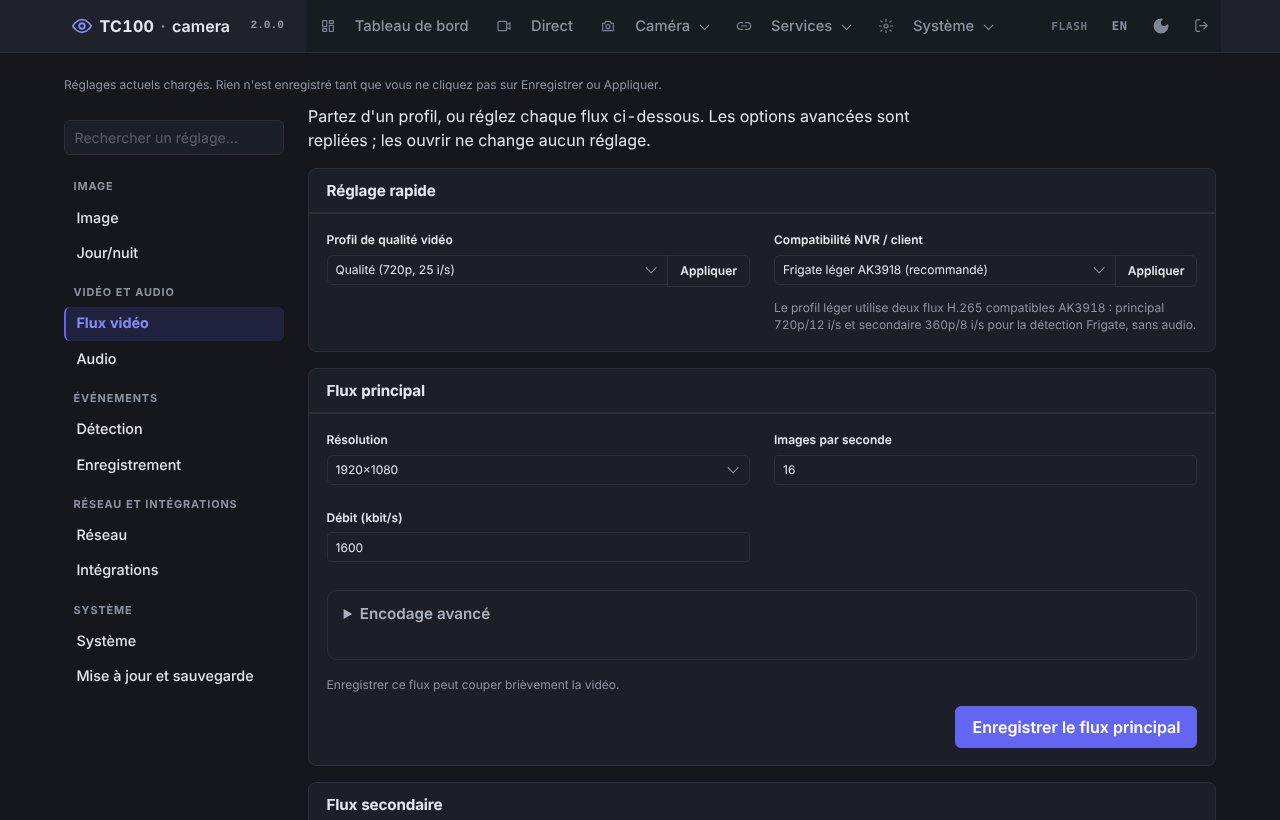
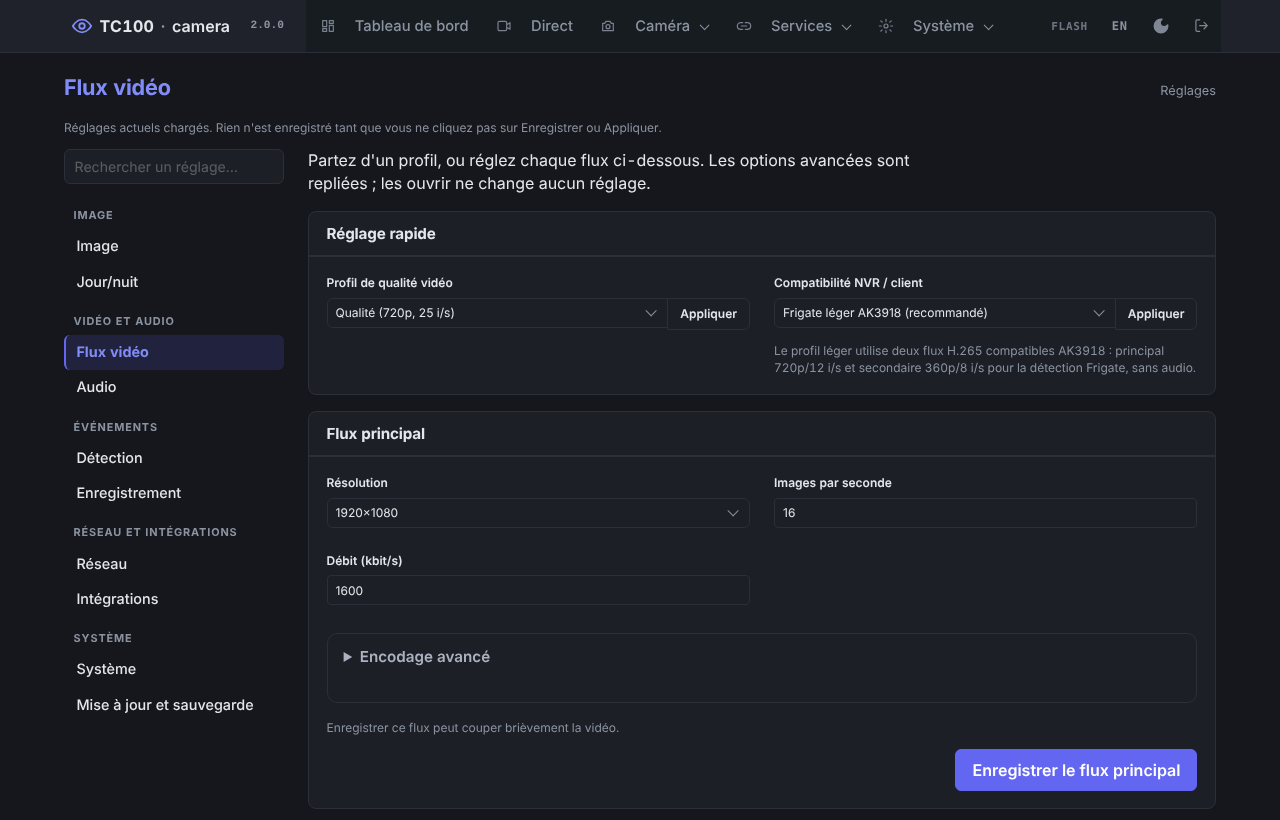
2.1.1: lighter CGIs, ChaCha20 first over HTTPS, remaining pages restyled
- statusline without subshells on its usual path (0.94 -> 0.50 s per
  request on a camera); func.cgi caches the timeout probe and skips
  urldecode for plain values.
- Flash HTTPS prefers ECDHE-ECDSA-CHACHA20-POLY1305 (mbedTLS names):
  ~55 % less CPU to serve a page (no AES instructions on the AK3918).
- Page titles on Diagnostics, Logs, Services, Config editor, Recordings;
  segmented log tabs; themed recordings player; settings title follows
  the section; search loads the Wi-Fi and backup cards.
- Web updates record a reboot intent (no more "UNEXPECTED" for them).

Claude-Session: https://claude.ai/code/session_014gtE1qwzw7JFQVcpbdix3V

diff --git a/www/settings.html b/www/settings.html
@@ -1,4 +1,5 @@
 <div id="settings_container">
+    <header class="page-head"><h1 class="page-title" id="settings_title">Picture</h1><small class="page-meta">Settings</small></header>
     <p id="settings_load_status" class="help mb-3" role="status">Loading current settings…</p>
     <div id="settings_warnings">
             <div id="sd_readonly_warning" style="display:none">
@@ -746,6 +747,8 @@
             var search = document.getElementById('settings_search');
             if (search && search.value) { search.value = ''; applySearch(''); }
             navLinks.forEach(function (t) { t.classList.toggle('is-active', t.dataset.tab === targetId); });
+            var title = document.getElementById('settings_title');
+            if (title && linkFor[targetId]) title.textContent = linkFor[targetId].querySelector('span').textContent;
             document.querySelectorAll('#tab-contents > .tab-content').forEach(function(content) {
                 content.classList.toggle('is-hidden', content.id !== targetId);
             });
@@ -767,6 +770,8 @@
             q = (q || '').trim().toLowerCase();
             var container = document.getElementById('settings_container');
             container.classList.toggle('is-searching', !!q);
+            var title = document.getElementById('settings_title');
+            if (title) title.textContent = q ? 'Search results' : (linkFor[currentTab] ? linkFor[currentTab].querySelector('span').textContent : '');
             var any = false;
             document.querySelectorAll('#tab-contents > .tab-content').forEach(function (tab) {
                 var hits = 0;
@@ -791,9 +796,17 @@
         var searchBox = document.getElementById('settings_search');
         if (searchBox) {
             var searchTimer = null;
+            var slotsAsked = false;
             searchBox.addEventListener('input', function () {
                 clearTimeout(searchTimer);
                 searchTimer = setTimeout(function () { applySearch(searchBox.value); }, 120);
+                // Network and backup cards load on demand: fetch them on the
+                // first search so they can be found too.
+                if (!slotsAsked) {
+                    slotsAsked = true;
+                    Promise.all([loadSlot('network_settings_slot'), loadSlot('backup_slot')])
+                        .then(function () { if (searchBox.value) applySearch(searchBox.value); });
+                }
             });
             searchBox.addEventListener('keydown', function (e) {
                 if (e.key === 'Escape') { searchBox.value = ''; applySearch(''); }
@@ -863,9 +876,9 @@
         // time their tab is opened.
         function loadSlot(id) {
             var slot = document.getElementById(id);
-            if (!slot || slot.dataset.loaded || !window.EliteUI || !window.EliteUI.loadInto) return;
+            if (!slot || slot.dataset.loaded || !window.EliteUI || !window.EliteUI.loadInto) return Promise.resolve();
             slot.dataset.loaded = '1';
-            window.EliteUI.loadInto(slot, slot.dataset.src);
+            return window.EliteUI.loadInto(slot, slot.dataset.src);
         }
 
         // Nearby networks, inside the Wi-Fi card: a click on a row fills the

diff --git a/www/css/ui-v3.css b/www/css/ui-v3.css
@@ -197,3 +197,22 @@ input.switch[type="checkbox"]:checked, .services-autorun-cell input.autostart:ch
   .settings-nav a { flex: none; white-space: nowrap; border: 1px solid var(--v2-rule); border-left-width: 1px; padding: 0.3rem 0.7rem; font-size: 0.85rem; }
   .settings-nav a.is-active { border-color: var(--v2-accent-fill); }
 }
+
+/* ---------------------------------------------------------- tool pages */
+/* Logs: the three logs as one segmented control. */
+.logs-tab-buttons { display: flex !important; flex-direction: row !important; gap: 0 !important; margin-bottom: 0.75rem; }
+.logs-tab-buttons .button { flex: 1; margin: 0 !important; border-radius: 0 !important; }
+.logs-tab-buttons .button + .button { margin-left: -1px !important; }
+.logs-tab-buttons .button:first-child { border-radius: 6px 0 0 6px !important; }
+.logs-tab-buttons .button:last-child { border-radius: 0 6px 6px 0 !important; }
+.logs-tab-buttons .button.is-active { background: var(--v2-accent-soft) !important; color: var(--v2-accent) !important; border-color: var(--v2-accent-fill) !important; position: relative; z-index: 1; }
+[data-theme="dark"] .logs-severity-tag, [data-theme="dark"] .logs-summary-chip { filter: saturate(0.7) brightness(0.85); }
+/* Recordings: the player frame follows the theme. */
+.records-video { background: var(--v2-panel) !important; border-color: var(--v2-rule) !important; border-radius: var(--v2-radius) !important; }
+.records-video .notification { margin: 0; }
+#disk_usage_label { color: var(--v2-muted) !important; }
+.motion-timeline > summary { display: flex; align-items: center; padding-right: 1.1rem !important; }
+.motion-timeline-thumb { background: var(--v2-hover) !important; }
+.motion-timeline-item { border-bottom-color: var(--v2-rule) !important; }
+/* Diagnostics tabs: same look as the rest of the bar. */
+#diagnostics_container .tabs li.is-active a { box-shadow: inset 0 -2px 0 var(--v2-accent-fill) !important; }

diff --git a/www/index.html b/www/index.html
@@ -22,9 +22,9 @@
     <!-- CSS Framework: Modernization v1.0.2 -->
     <link href="css/bulma.1.0.2.purged.min.css?v=1.8.4" rel="stylesheet">
     <link href="css/ui-modern.min.css?v=1.8.4-ui4" rel="stylesheet">
-    <link href="css/ui-v2.css?v=2.1.0-ui1" rel="stylesheet">
-    <link href="css/ui-v3.css?v=2.1.0-ui1" rel="stylesheet">
-    <script src="scripts/i18n.js?v=2.1.0-i18n1"></script>
+    <link href="css/ui-v2.css?v=2.1.1-ui1" rel="stylesheet">
+    <link href="css/ui-v3.css?v=2.1.1-ui1" rel="stylesheet">
+    <script src="scripts/i18n.js?v=2.1.0-i18n2"></script>
     <link href="icomoon/style.css" rel="stylesheet">
     <!-- Prefer lightweight bundles; global jQuery removed to lower client CPU and memory -->
 
@@ -328,7 +328,7 @@
     </section>
 
     <!-- Prefer lightweight bundled scripts to reduce CPU and allow caching -->
-    <script src="scripts/index.bundle.min.js?v=2.1.0-ui1" type="text/javascript" defer></script>
+    <script src="scripts/index.bundle.min.js?v=2.1.1-ui1" type="text/javascript" defer></script>
     <script>
         (function () {
             var loading = false;

diff --git a/www/i18n/fr.js b/www/i18n/fr.js
@@ -130,6 +130,7 @@ window.tc100I18nFr = {
   "Config Editor": "Éditeur de configuration",
   "Config File Editor": "Éditeur des fichiers de configuration",
   "Config Profiles": "Profils de configuration",
+  "Config editor": "Éditeur de configuration",
   "Configuration applied": "Configuration appliquée",
   "Configuration profiles": "Profils de configuration",
   "Configured": "Configuré",
@@ -558,6 +559,7 @@ window.tc100I18nFr = {
   "Scan": "Rechercher",
   "Scan failed: ": "Échec de la recherche : ",
   "Scans for nearby WiFi networks. Takes 3-5 seconds.": "Recherche les réseaux Wi-Fi proches. Prend 3 à 5 secondes.",
+  "Search results": "Résultats de la recherche",
   "Search settings": "Rechercher un réglage",
   "Search settings…": "Rechercher un réglage…",
   "Secondary DNS": "DNS secondaire",

diff --git a/www/view_records.html b/www/view_records.html
@@ -68,6 +68,7 @@
 .motion-timeline>summary{cursor:pointer;list-style:none}.motion-timeline>summary::-webkit-details-marker{display:none}.motion-timeline>summary::after{content:"+";margin-left:auto}.motion-timeline[open]>summary::after{content:"−"}.motion-timeline-tools{display:flex;align-items:center;gap:.5rem;margin-bottom:.5rem}.motion-timeline-empty{padding:.5rem;color:#777;font-size:.85em}
 </style>
 
+<header class="page-head"><h1 class="page-title">Recordings</h1></header>
 <div class="records-layout">
   <div class="records-panel">
     <div class="card status_card">

diff --git a/www/scripts/i18n.js b/www/scripts/i18n.js
@@ -12,7 +12,7 @@
 (function () {
   "use strict";
   var KEY = "tc100_lang";
-  var VERSION = "2.1.0-i18n1";
+  var VERSION = "2.1.0-i18n2";
   var lang = null;
   try { lang = window.localStorage.getItem(KEY); } catch (e) { /* storage blocked */ }
   if (lang !== "fr" && lang !== "en") {

diff --git a/www/configeditor.html b/www/configeditor.html
@@ -29,6 +29,7 @@
 .configeditor-note { font-size: 0.82em; color: #888; margin-top: 0.25rem; }
 </style>
 
+<header class="page-head"><h1 class="page-title">Config editor</h1></header>
 <div class="card status_card">
   <header class="card-header">
     <p class="card-header-title">

diff --git a/www/diagnostics.html b/www/diagnostics.html
@@ -1,3 +1,4 @@
+<header class="page-head"><h1 class="page-title">Diagnostics</h1></header>
 <div id="diagnostics_container">
     <!-- One page for the camera's state, each part loaded when its tab is
          opened (each one runs several probes on the camera). -->

diff --git a/src/webui/screenshots/mock/scripts.cgi.none.html b/src/webui/screenshots/mock/scripts.cgi.none.html
@@ -1,3 +1,4 @@
+<header class='page-head'><h1 class='page-title'>Services</h1></header>
 <div class='card status_card services-table-card'>
 <header class='card-header'>
 <p class='card-header-title'>Services</p>

diff --git a/www/logs.html b/www/logs.html
@@ -1,3 +1,4 @@
+<header class="page-head"><h1 class="page-title">Logs</h1></header>
 <div class="info-grid">
   <div class="info-side">
     <div class="card status_card info-card">

diff --git a/tests/test_regressions.py b/tests/test_regressions.py
@@ -173,7 +173,7 @@ class Regressions(unittest.TestCase):
         cfg.mkdir()
         (cfg / 'boot.conf').write_text('SECURITY_HARDENING_MODE=0\n')
         (cfg / 'mqtt.conf').write_text('MQTT_ENABLE=1\nMQTT_HA_DISCOVERY_ENABLE=1\n')
-        code = function('www/cgi-bin/func.cgi', 'read_conf_value') + '\n'
+        code = function('www/cgi-bin/func.cgi', 'read_conf_value') + '\n' + function('www/cgi-bin/func.cgi', 'conf_get') + '\n'
         flags = function('www/cgi-bin/state.cgi', 'get_security_and_mqtt_flags')
         flags = flags.replace('/mnt/config', str(cfg)).replace('/tmp/mqtt_last_pub.status', str(self.base / 'missing-status'))
         code += flags + '\nget_security_and_mqtt_flags; printf "%s|%s" "$mqtt_enabled" "$mqtt_discovery"'
@@ -1589,6 +1589,11 @@ class FlashWebServer(unittest.TestCase):
         self.assertIn('"mod_mbedtls"', t); self.assertNotIn('"mod_openssl"', t)
         self.assertIn('"server.h2proto" => "disable"', t)
         self.assertIn('ssl.pemfile = "/mnt/config/lighttpd.pem"', t)
+        # ChaCha20 first, in mbedTLS names (OpenSSL names stop lighttpd: tried on a camera)
+        cs = re.search(r'"CipherString" => "([^"]+)"', t).group(1).split(':')
+        self.assertEqual(cs[0], 'TLS-ECDHE-ECDSA-WITH-CHACHA20-POLY1305-SHA256')
+        self.assertTrue(all(c.startswith('TLS-ECDHE-ECDSA-WITH-') for c in cs), cs)
+        self.assertIn('"Options" => "ServerPreference"', t)
 
     def test_flash_conf_needs_no_pcre(self):
         t = (ROOT / 'config/lighttpd.flash.conf.dist').read_text()
@@ -2159,6 +2164,7 @@ class UsrUpdateFromFlash(unittest.TestCase):
         src = (ROOT / 'www/cgi-bin/update.cgi').read_text().replace('/tmp/csrf_token', str(self.d / 'csrf'))
         env = dict(self.env, REQUEST_METHOD=method, QUERY_STRING='cmd=' + cmd, CONTENT_LENGTH=str(len(body)),
                    HTTP_X_CSRF_TOKEN='ab12', FC_SCRIPT=str(ROOT / 'scripts/flash-code.sh'), FC_WORK=str(self.d / 'fw'),
+                   FWU_JFFS_LOG=str(self.d / 'jffslog'),
                    UU_WORK=str(self.d / 'sysupd'), UU_SCRIPT=str(ROOT / 'scripts/usr-update.sh'))
         env.setdefault('FM', str(ROOT / 'scripts/flashmode-once.sh'))
         r = subprocess.run(['sh', '-c', src], input=body, capture_output=True, env=env)
@@ -2235,6 +2241,22 @@ class WebUiSources(unittest.TestCase):
         finally:
             shutil.rmtree(tmp)
 
+    def test_statusline_and_func_cgi_avoid_subshells(self):
+        s = (ROOT / 'www/cgi-bin/state.cgi').read_text()
+        body = s[s.index('  statusline)\n'):s.index('  integrationtest)\n')]
+        subshells = [l.strip() for l in body.splitlines() if '$(' in l.replace('$((', '')]
+        # only the one-time CSRF token creation and the rare non-hex token clean-up
+        self.assertEqual(len(subshells), 3, subshells)
+        f = (ROOT / 'www/cgi-bin/func.cgi').read_text()
+        self.assertIn('*%*|*+*) value="$(urldecode "${raw_value}")" ;;', f)
+        self.assertIn('/tmp/.tc100-timeout-ok', f)
+        # plain and encoded values still decode to the same thing
+        sh = ['busybox', 'ash'] if shutil.which('busybox') else ['sh']   # ${x//a/b}: ash, not dash
+        r = subprocess.run(sh + ['-c', '. ' + str(ROOT / 'www/cgi-bin/func.cgi') + '; printf "%s|%s|%s" "$F_cmd" "$F_a" "$F_b"'],
+                           env={'PATH': os.environ['PATH'], 'REQUEST_METHOD': 'GET',
+                                'QUERY_STRING': 'cmd=statusline&a=x%20y%26z&b=1+2'}, capture_output=True, text=True)
+        self.assertEqual(r.stdout.split('\n')[-1], 'statusline|x y&z|1 2')
+
     def test_home_views_and_settings_deep_links(self):
         js = (ROOT / 'www/scripts/index.bundle.min.js').read_text()
         self.assertIn('function showHome(view)', js)
@@ -2308,7 +2330,8 @@ class FlashCodeZone(unittest.TestCase):
         src = (ROOT / 'www/cgi-bin/update.cgi').read_text().replace('/tmp/csrf_token', str(self.d / 'csrf'))
         env = dict(self.env, REQUEST_METHOD=method, QUERY_STRING='cmd=' + cmd, CONTENT_LENGTH=str(len(body)),
                    HTTP_X_CSRF_TOKEN='ab12', TC100_STORAGE_FILE=str(self.d / 'storage'),
-                   FC_SCRIPT=str(ROOT / 'scripts/flash-code.sh'), FC_WORK=str(self.d / 'work'))
+                   FC_SCRIPT=str(ROOT / 'scripts/flash-code.sh'), FC_WORK=str(self.d / 'work'),
+                   FWU_JFFS_LOG=str(self.d / 'jffslog'))
         (self.d / 'storage').write_text('flash\n')
         r = subprocess.run(['sh', '-c', src], input=body, capture_output=True, env=env)
         return json.loads(r.stdout.split(b'\r\n\r\n', 1)[1])
@@ -2326,6 +2349,8 @@ class FlashCodeZone(unittest.TestCase):
             time.sleep(0.1)
         self.assertTrue((self.d / 'rebooted').exists())
         self.assertEqual(self.fc('status').stdout.strip(), 'valid 9.9-test')
+        # planned restart recorded for reboot-tracker.sh (not "UNEXPECTED")
+        self.assertIn('|web: code update', (self.d / 'jffslog/.reboot-intent').read_text())
 
 
 class ForkLightLoops(unittest.TestCase):

diff --git a/src/webui/screenshots/shots.py b/src/webui/screenshots/shots.py
@@ -35,6 +35,9 @@ with sync_playwright() as p:
         settings(pg,tab); pg.screenshot(path=OUT+'/%s.png'%name)
     for t,name in [('services','tools-services'),('diagnostics','tools-diagnostics')]:
         pg.evaluate("document.getElementById(%r).click()"%t); pg.wait_for_timeout(2500); pg.screenshot(path=OUT+'/%s.png'%name)
+    for t,name in [('logs','tools-logs'),('configeditor','tools-configeditor')]:
+        pg.evaluate("document.getElementById(%r).click()"%t); pg.wait_for_timeout(2500); pg.screenshot(path=OUT+'/%s.png'%name)
+    settings(pg,'tab-image'); pg.fill('#settings_search','mqtt'); pg.wait_for_timeout(2500); pg.screenshot(path=OUT+'/settings-search.png')
     print('errors light', pg.errs)
     pg=page(b,'dark','fr'); settings(pg,'tab-video'); pg.screenshot(path=OUT+'/settings-dark-fr.png'); print('errors dark', pg.errs)
     pg=page(b,'dark','en',390,844,True); pg.wait_for_timeout(11000); pg.screenshot(path=OUT+'/dashboard-mobile.png', full_page=True)
